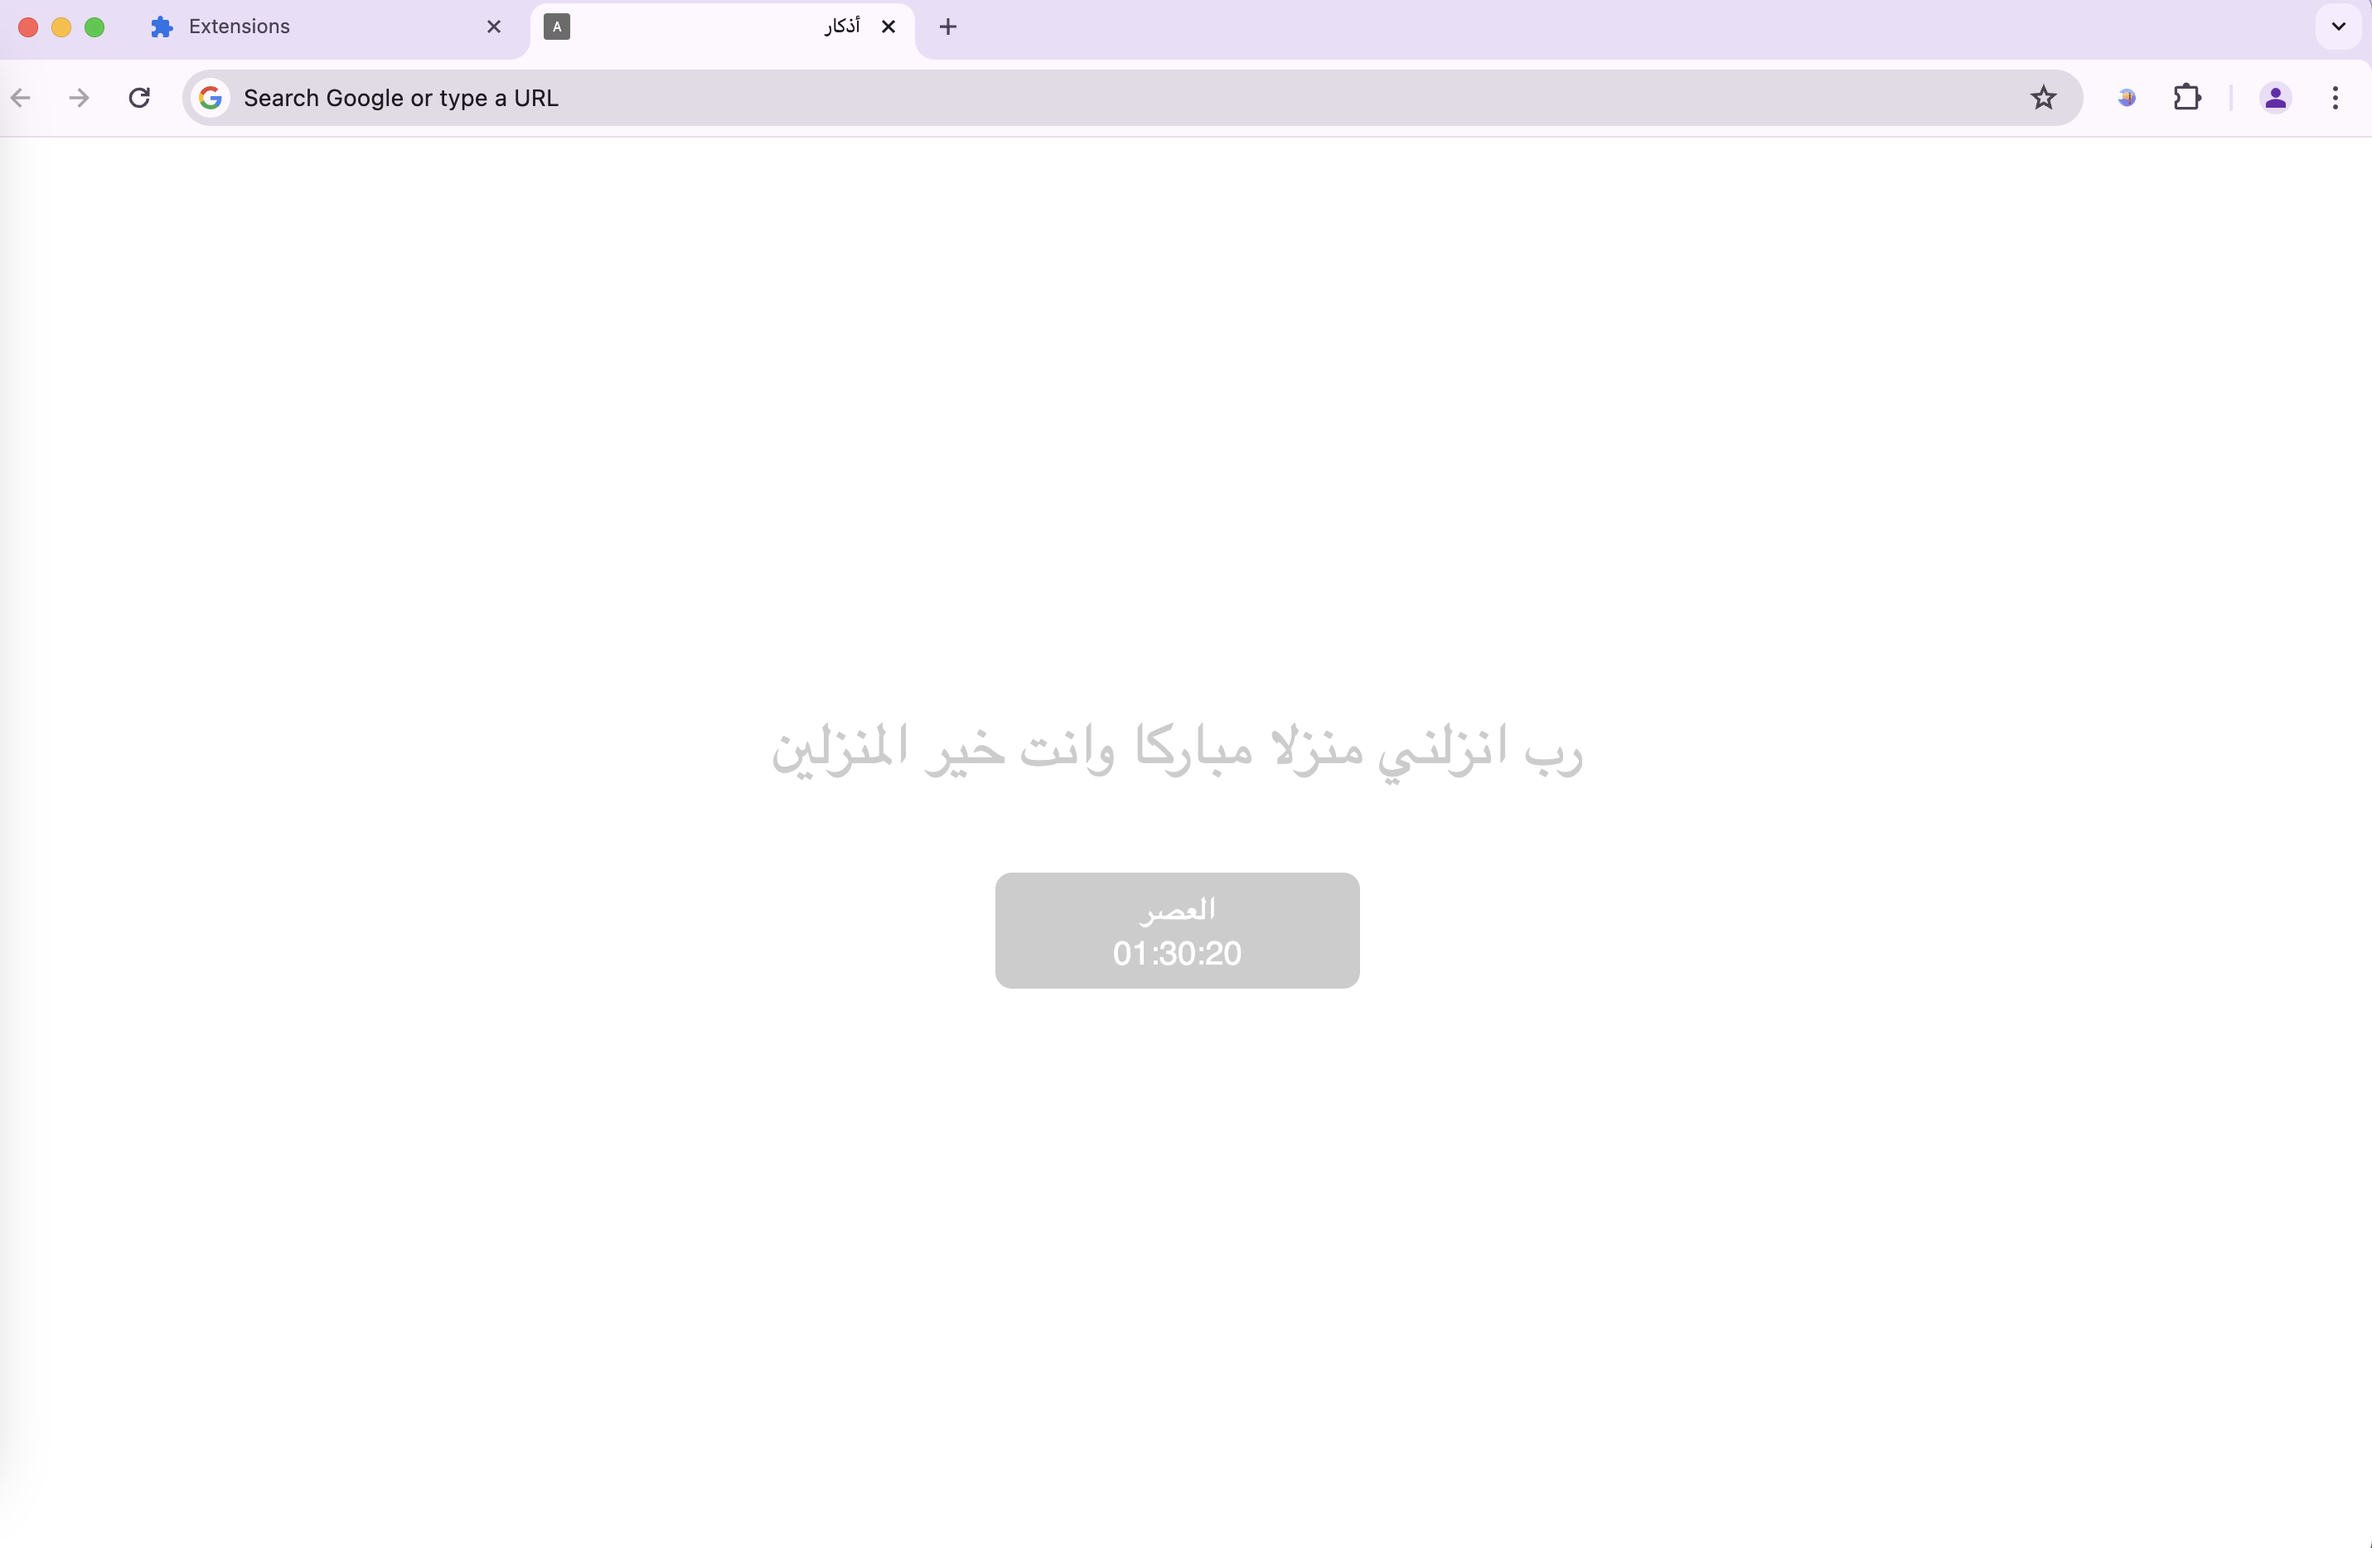
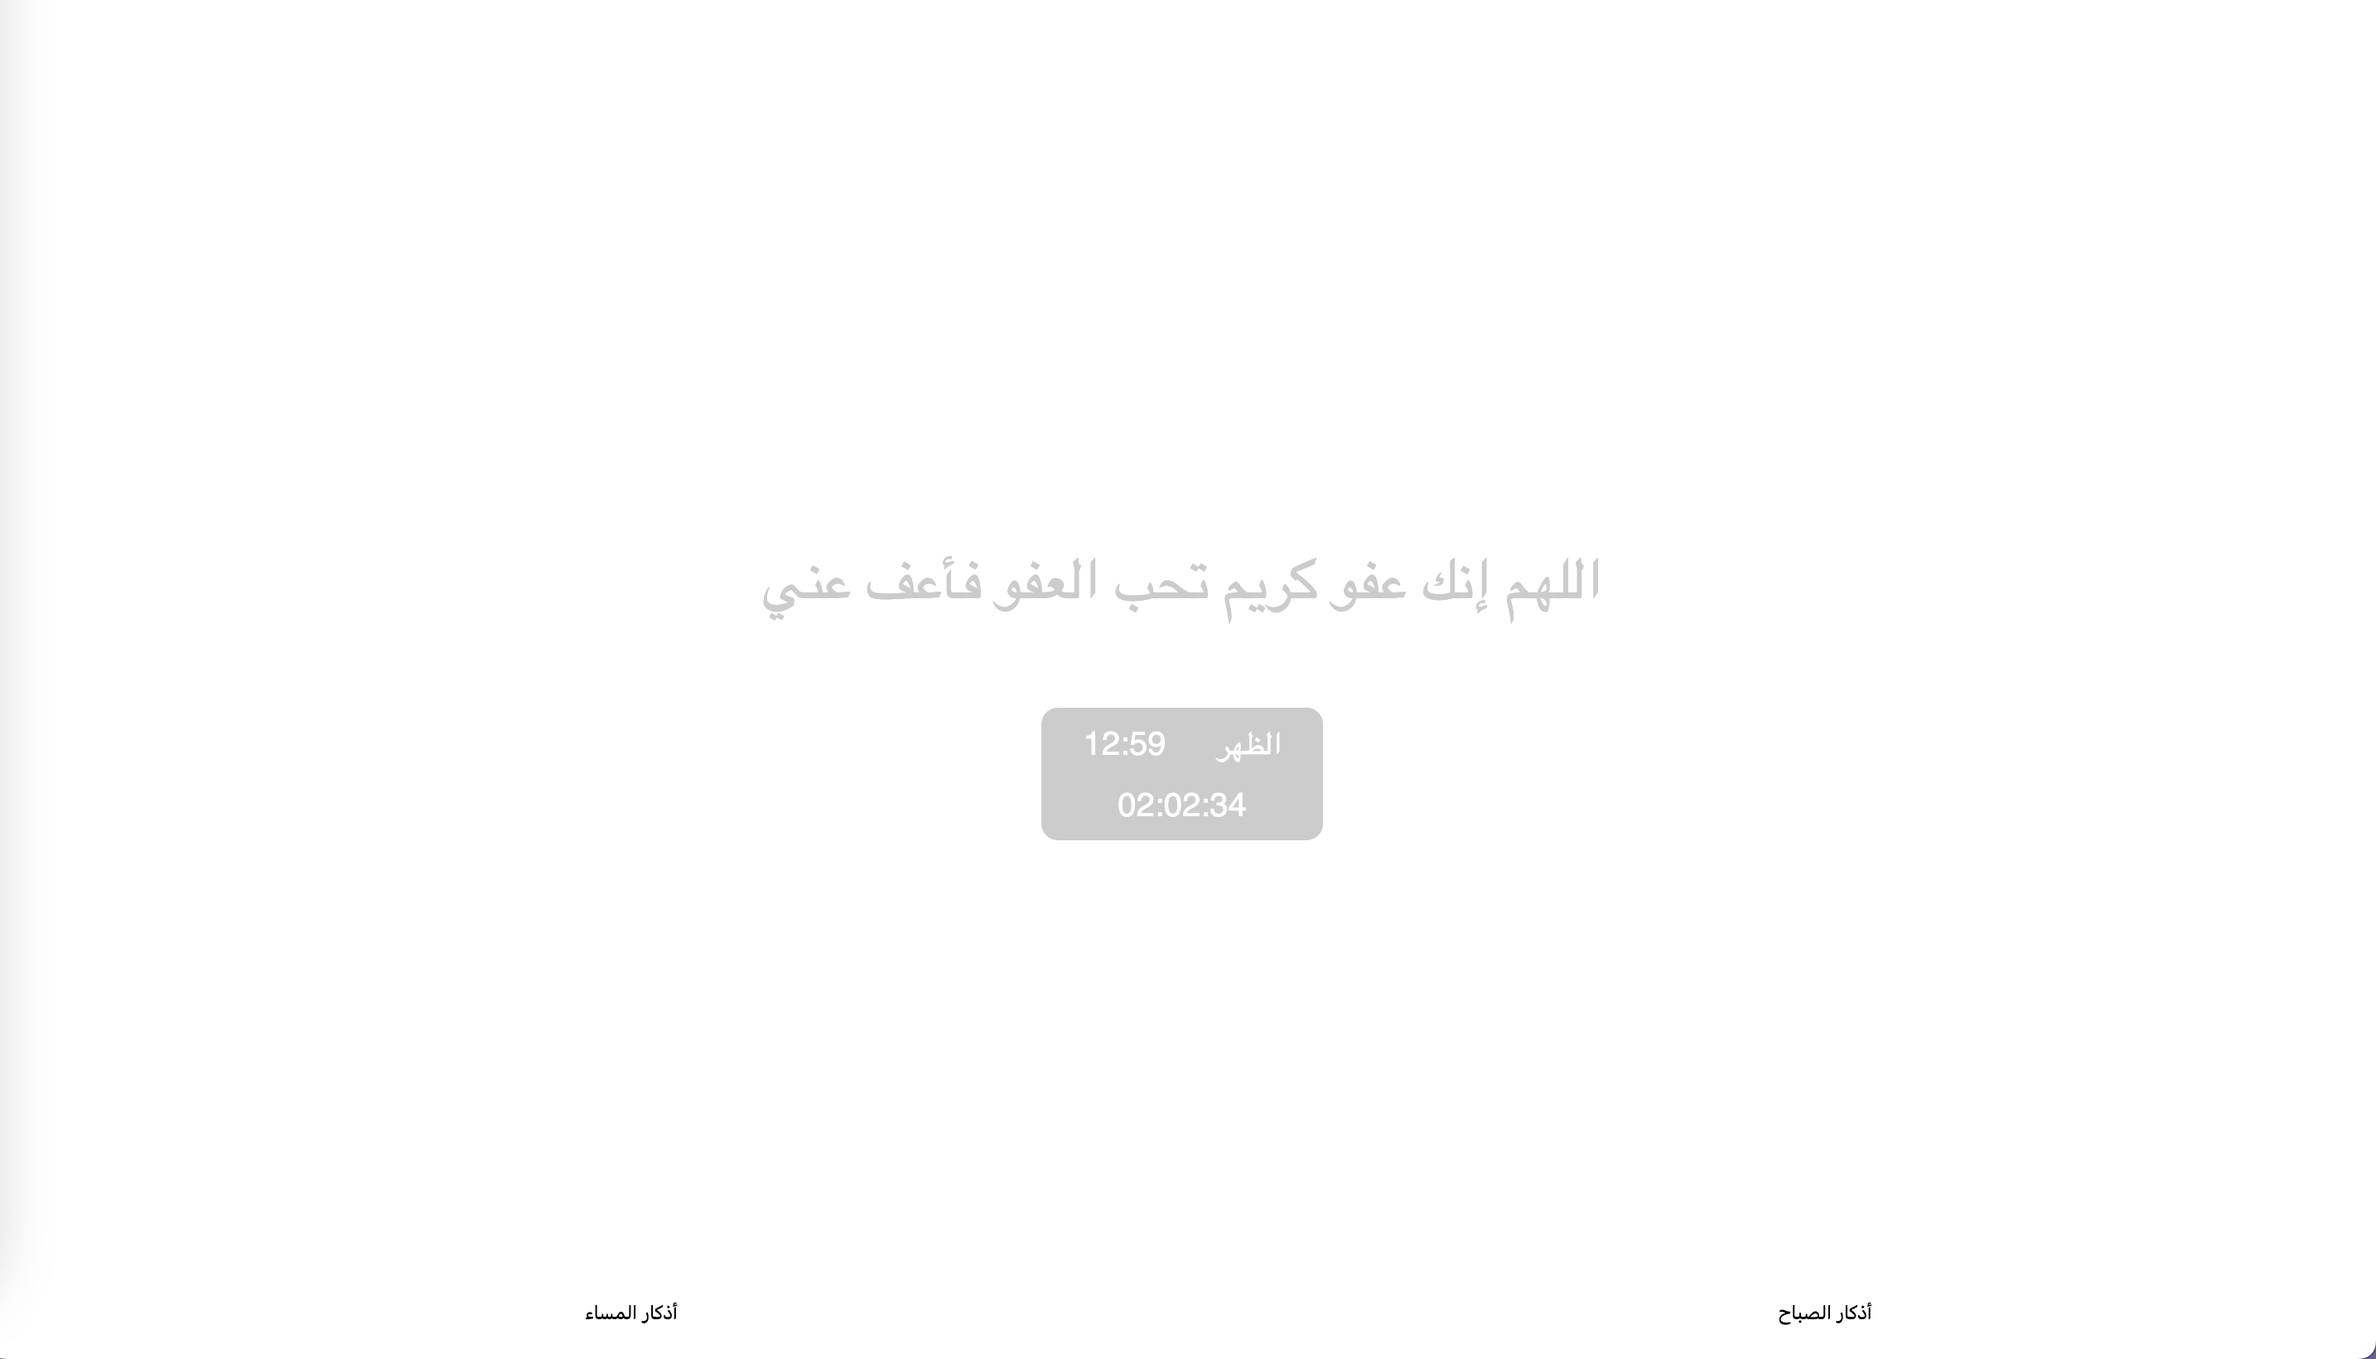
[azkar-1003] Add next prayer details

diff --git a/chrome/current.js b/chrome/current.js
@@ -1,23 +1,85 @@
 
 var allAzkar = ["بسم الله"];
+var city = 'Alexandria';
+var country = 'Egypt';
+const prayerNames = {
+  'Asr': 'العصر',
+  'Dhuhr': 'الظهر',
+  'Fajr': 'الفجر',
+  'Isha': 'العشاء',
+  'Maghrib': 'المغرب',
+  'Sunrise': 'الشروق'
+};
+const currentTime = new Date();
+const ONE_HOUR = 60 * 60 * 1000;
+const ONE_MINUTE = 60 * 1000;
+
 loadAzkar();
+loadPrayerTimes();
+
 function changeZekrRandomly() {
   const index = Math.floor(Math.random() * allAzkar.length);
-
   document.getElementById("zekr").innerHTML = allAzkar[index];
-  // var mydata = JSON.parse(data);
-  // console.log(mydata);
-
 }
 
 function loadAzkar() {
   const url = chrome.runtime.getURL('data.json');
   fetch(url)
-      .then((response) => response.json()) //assuming file contains json
+      .then((response) => response.json())
       .then((json) => {
-        console.log(json);
         allAzkar = json.azkar;
-        console.log('hala ', allAzkar);
         changeZekrRandomly();
   });
+}
+
+function loadPrayerTimes() {
+  const url = `https://api.aladhan.com/v1/timingsByCity?city=${city}&country=${country}`;
+  fetch(url)
+      .then((response) => response.json()) 
+      .then((json) => {
+        // console.log(json);
+        const timings = json.data.timings;
+        // todo save them locally every day
+        const result = getClosestPrayerInfo(timings);
+        document.getElementById("next-prayer-name").innerHTML = result.name;
+        document.getElementById("next-prayer-time").innerHTML = result.time;
+        document.getElementById("next-prayer-diff").innerHTML = result.diff;
+  });
+}
+
+function getClosestPrayerInfo(timings) {
+  const keyNames = Object.keys(prayerNames);
+  var recentPrayer = '';
+  var recentDiff = ONE_HOUR * 24; // max so it will be replaced in first round
+  for (k in timings) {
+    if (keyNames.includes(k)) {
+      const diff = getTimeDiff(timings[k]);
+      if(diff < recentDiff) {
+        recentDiff = diff;
+        recentPrayer = k;
+      }
+    }
+  }
+
+  var diffx = recentDiff;
+  const hour = Math.floor(diffx/ONE_HOUR);
+  diffx = diffx - (hour * ONE_HOUR);
+  const min = Math.floor(diffx/ONE_MINUTE);
+  diffx = diffx - (min * ONE_MINUTE);
+  const sec = Math.floor(diffx/1000);
+  return {
+    name: prayerNames[recentPrayer],
+    time: timings[recentPrayer],
+    diff: `${hour.toLocaleString('en-US', {minimumIntegerDigits: 2})}:${min.toLocaleString('en-US', {minimumIntegerDigits: 2})}:${sec.toLocaleString('en-US', {minimumIntegerDigits: 2})}`,
+  };
+}
+
+function getTimeDiff(time) {
+  const split = time.split(':')
+  var temp = new Date();
+  temp.setHours(split[0]);
+  temp.setMinutes(split[1]);
+  temp.setSeconds(0);
+  temp.setMilliseconds(0)
+  return Math.abs(temp.getTime() - currentTime.getTime());
 }

diff --git a/chrome/blank.html b/chrome/blank.html
@@ -9,11 +9,19 @@
     <div id="zekr" class="zekr"> بسم الله</div>
     <div class="azan-container">
       <div class="next-azan">
-        <div class="next-azan-name">العصر</div>
-        <div class="time-till-next-azan">01:30:20</div>
+        <div class="next-azan-details">
+          <div id="next-prayer-time">الوقت</div>
+          <div class="next-azan-name" id="next-prayer-name">الصلاة</div>
+        </div>
+        <div class="time-till-next-azan" id="next-prayer-diff">باقي من الزمن</div>
       </div>
     </div>
-    <script src="current.js"></script>
+    <div class="daily-zekr">
+      <div>أذكار المساء</div>
+      <div>أذكار الصباح</div>
 
+    </div>
+    <script src="current.js"></script>
+    <!-- <script src="moment-with-locales.js"></script> -->
   </body>
 </html>

diff --git a/chrome/style.css b/chrome/style.css
@@ -27,11 +27,26 @@
    margin: 40px;
 }
 
-.next-azan{
-   width: 200px;
+.next-azan {
+   width: 150px;
    background-color: #cccccc;
    color: #ffffff;
    font-size: 20px;
    padding: 10px;
    border-radius: 10px;
+}
+
+.next-azan-details {
+   display: flex;
+   justify-content: space-around;
+   margin-bottom: 10px;
+}
+
+.daily-zekr {
+   position: fixed;
+   bottom: 0;
+   display: flex;
+   justify-content: space-around;
+   padding: 20px;
+   width: 100%;
 }
